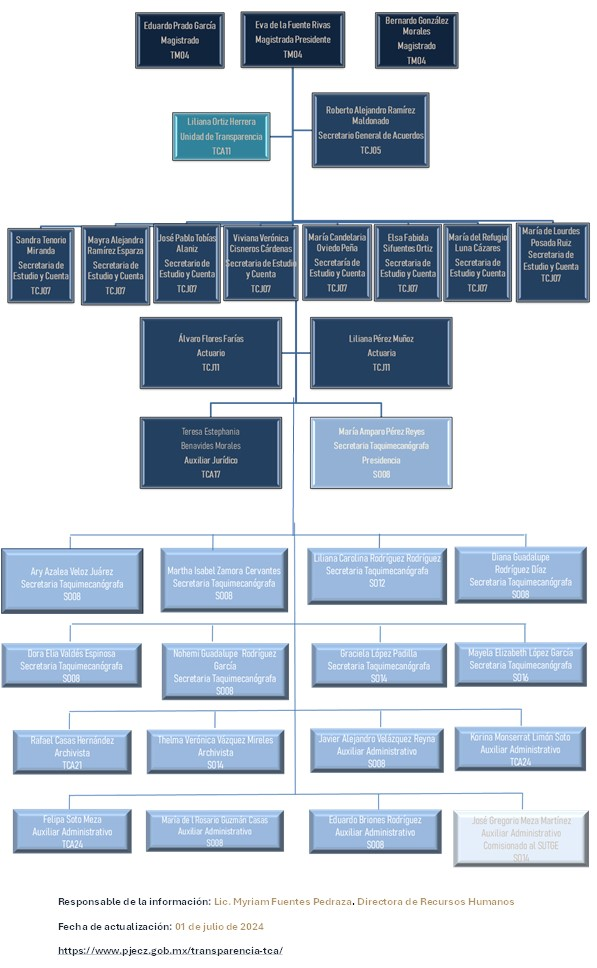
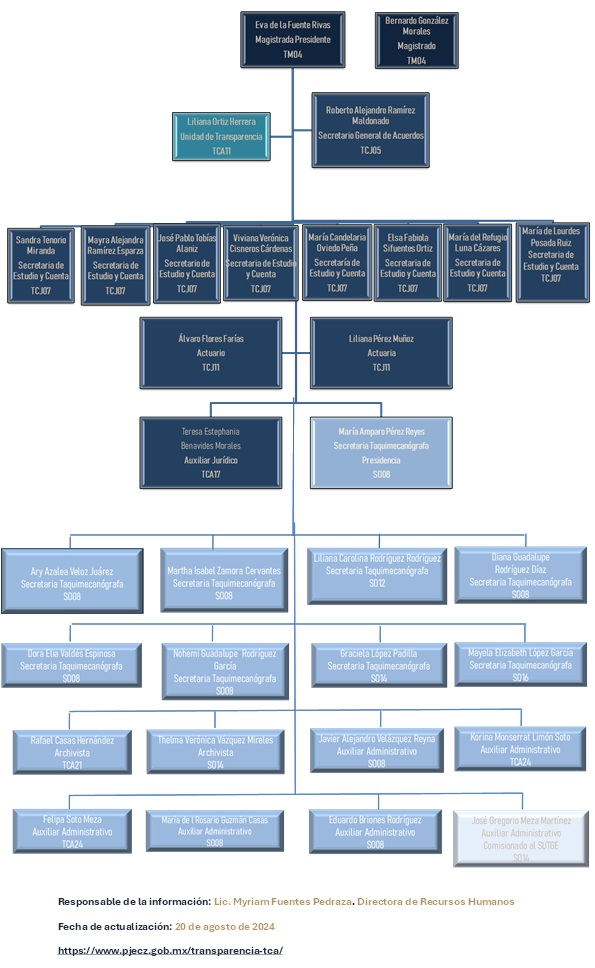
Actualización Transparencia TCA.

diff --git a/transparencia-tca/articulo-21/f01-estructura-organica/index.html b/transparencia-tca/articulo-21/f01-estructura-organica/index.html
@@ -266,13 +266,13 @@
 <h4>RESPONSABLE</h4>
 <p>Lic. Myriam Fuentes Pedraza, Directora de Recursos Humanos</p>
 <h4>FECHA DE VALIDACIÓN</h4>
-<p>01 de julio de 2024</p>
+<p>20 de agosto de 2024</p>
 <h2>Estructura Orgánica</h2>
 <p><a href="https://www.pjecz.gob.mx/transparencia-tca/articulo-21/f01-estructura-organica/estructura-organica/Organigrama.jpg">Organigrama</a></p>
 <!--stackedit_data:
-eyJoaXN0b3J5IjpbMzIzNDQwMzkwLDMyMzQ0MDM5MCwxMDMyND
-M3NDc1LC0xMzA3NjY1ODY3LDE3NTIxOTY4NTcsLTE2NzA2NDE0
-NDBdfQ==
+eyJoaXN0b3J5IjpbODMyNzkzNjYxLDMyMzQ0MDM5MCwzMjM0ND
+AzOTAsMTAzMjQzNzQ3NSwtMTMwNzY2NTg2NywxNzUyMTk2ODU3
+LC0xNjcwNjQxNDQwXX0=
 -->
 <h2>Descargar</h2>
 <ul>
